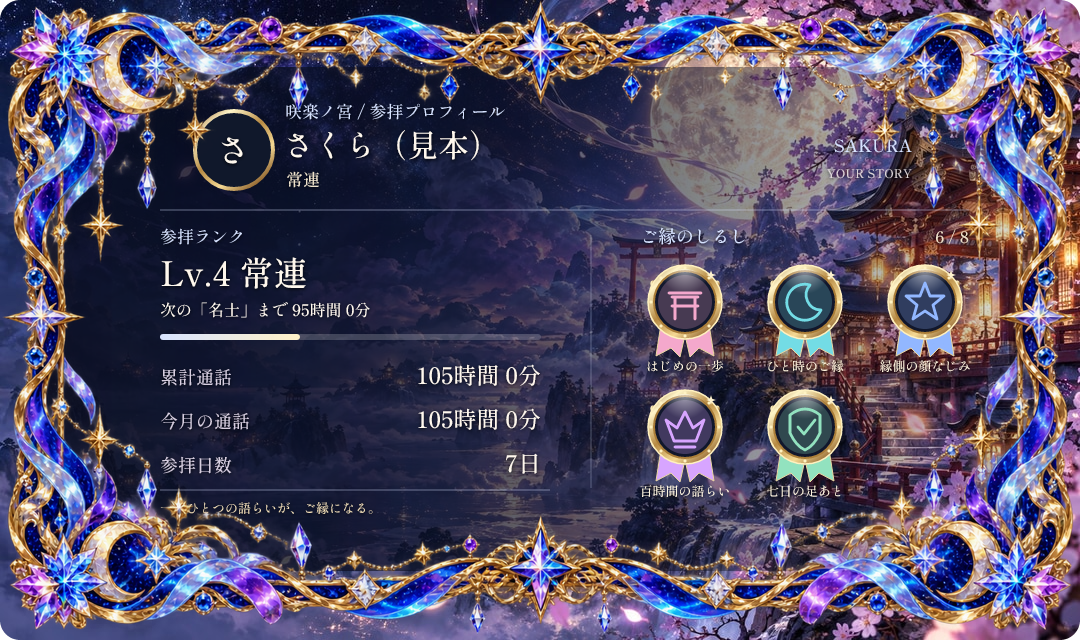
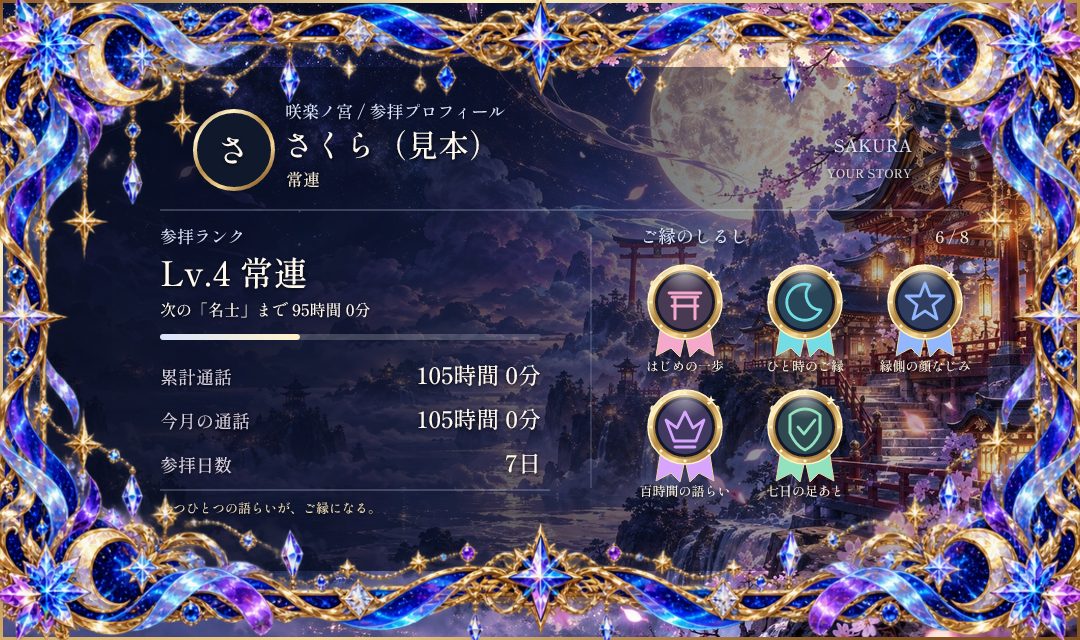
端に合わせたフレームの完成見本と最終検証を保存する

diff --git a/docs/work-notes.md b/docs/work-notes.md
@@ -745,3 +745,5 @@
 - 方針：フレームの描画を四辺へ広げて外側余白をなくし、細縁も画像端に合わせる。背景と文字・バッジは動かさず、実合成で収まりを検品する。価格・所持・公開設定は変更しない。
 - 次：描画位置と端の処理を調整、全組合せ/PNG容量/型/全件検証、完成サンプルと既存PRを更新。本番操作なし。
 - 最新85cade4を取り込み、市場コマンド/出品者ページを保持。コマンド一覧の期待値は参拝と市場の両方へ対応。フレームは左右20px/上下16px外まで描き四辺へ縁を接続、細縁も端へ変更。実カードで外側の余白なし・文字位置維持を確認。
+- 修正版の関連41件成功、型・ビルド成功。25組を再描画し、最大PNG1,709,610バイト/Base64換算2,279,480バイト。フレーム中央の透過も維持。390/1440pxで画像正常・横はみ出し/JS例外なし、購入/装備の操作も成功。新見本docs/previews/visit-moon-edge.png、既存見本と一覧も最新の合成へ更新。全件検証中。
+- 最終検証：最新85cade4を取り込んだ構成で全177ファイル2,054テスト成功（335.33秒、4並列）、型チェック・ビルド成功、関連41件成功。ログ/tmp/visit-edge-{all-tests,typecheck,build,related}.log。テスト削除/skipなし。修正版の見本とフレーム位置の修正を既存PR #88へ保存する。本番・実Discordの操作なし。
